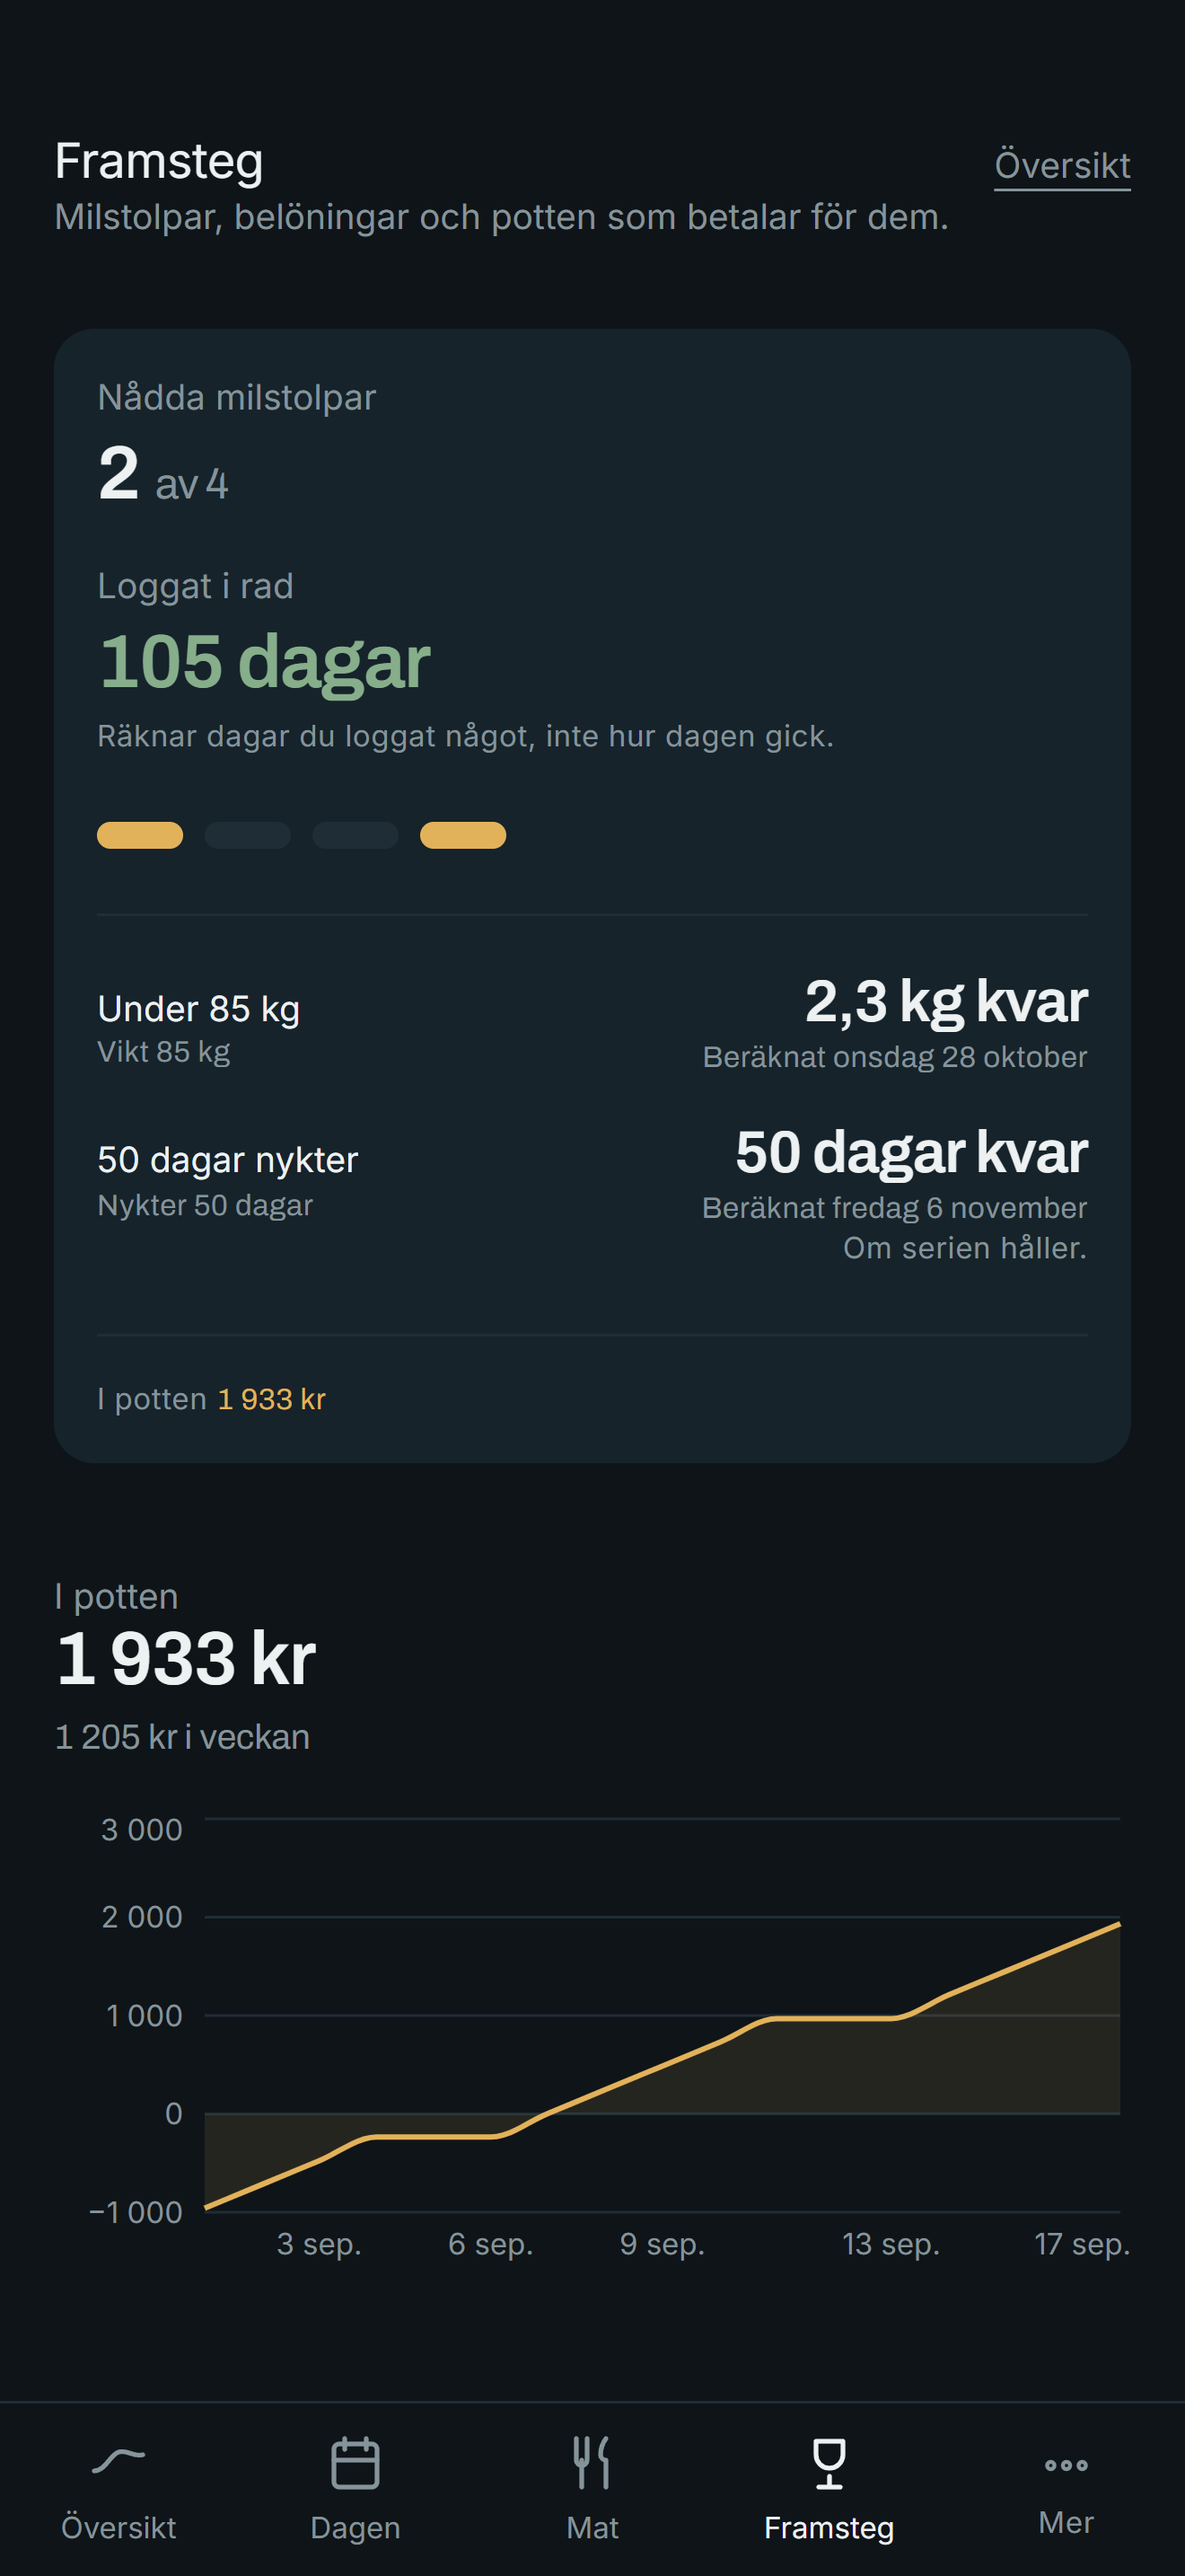
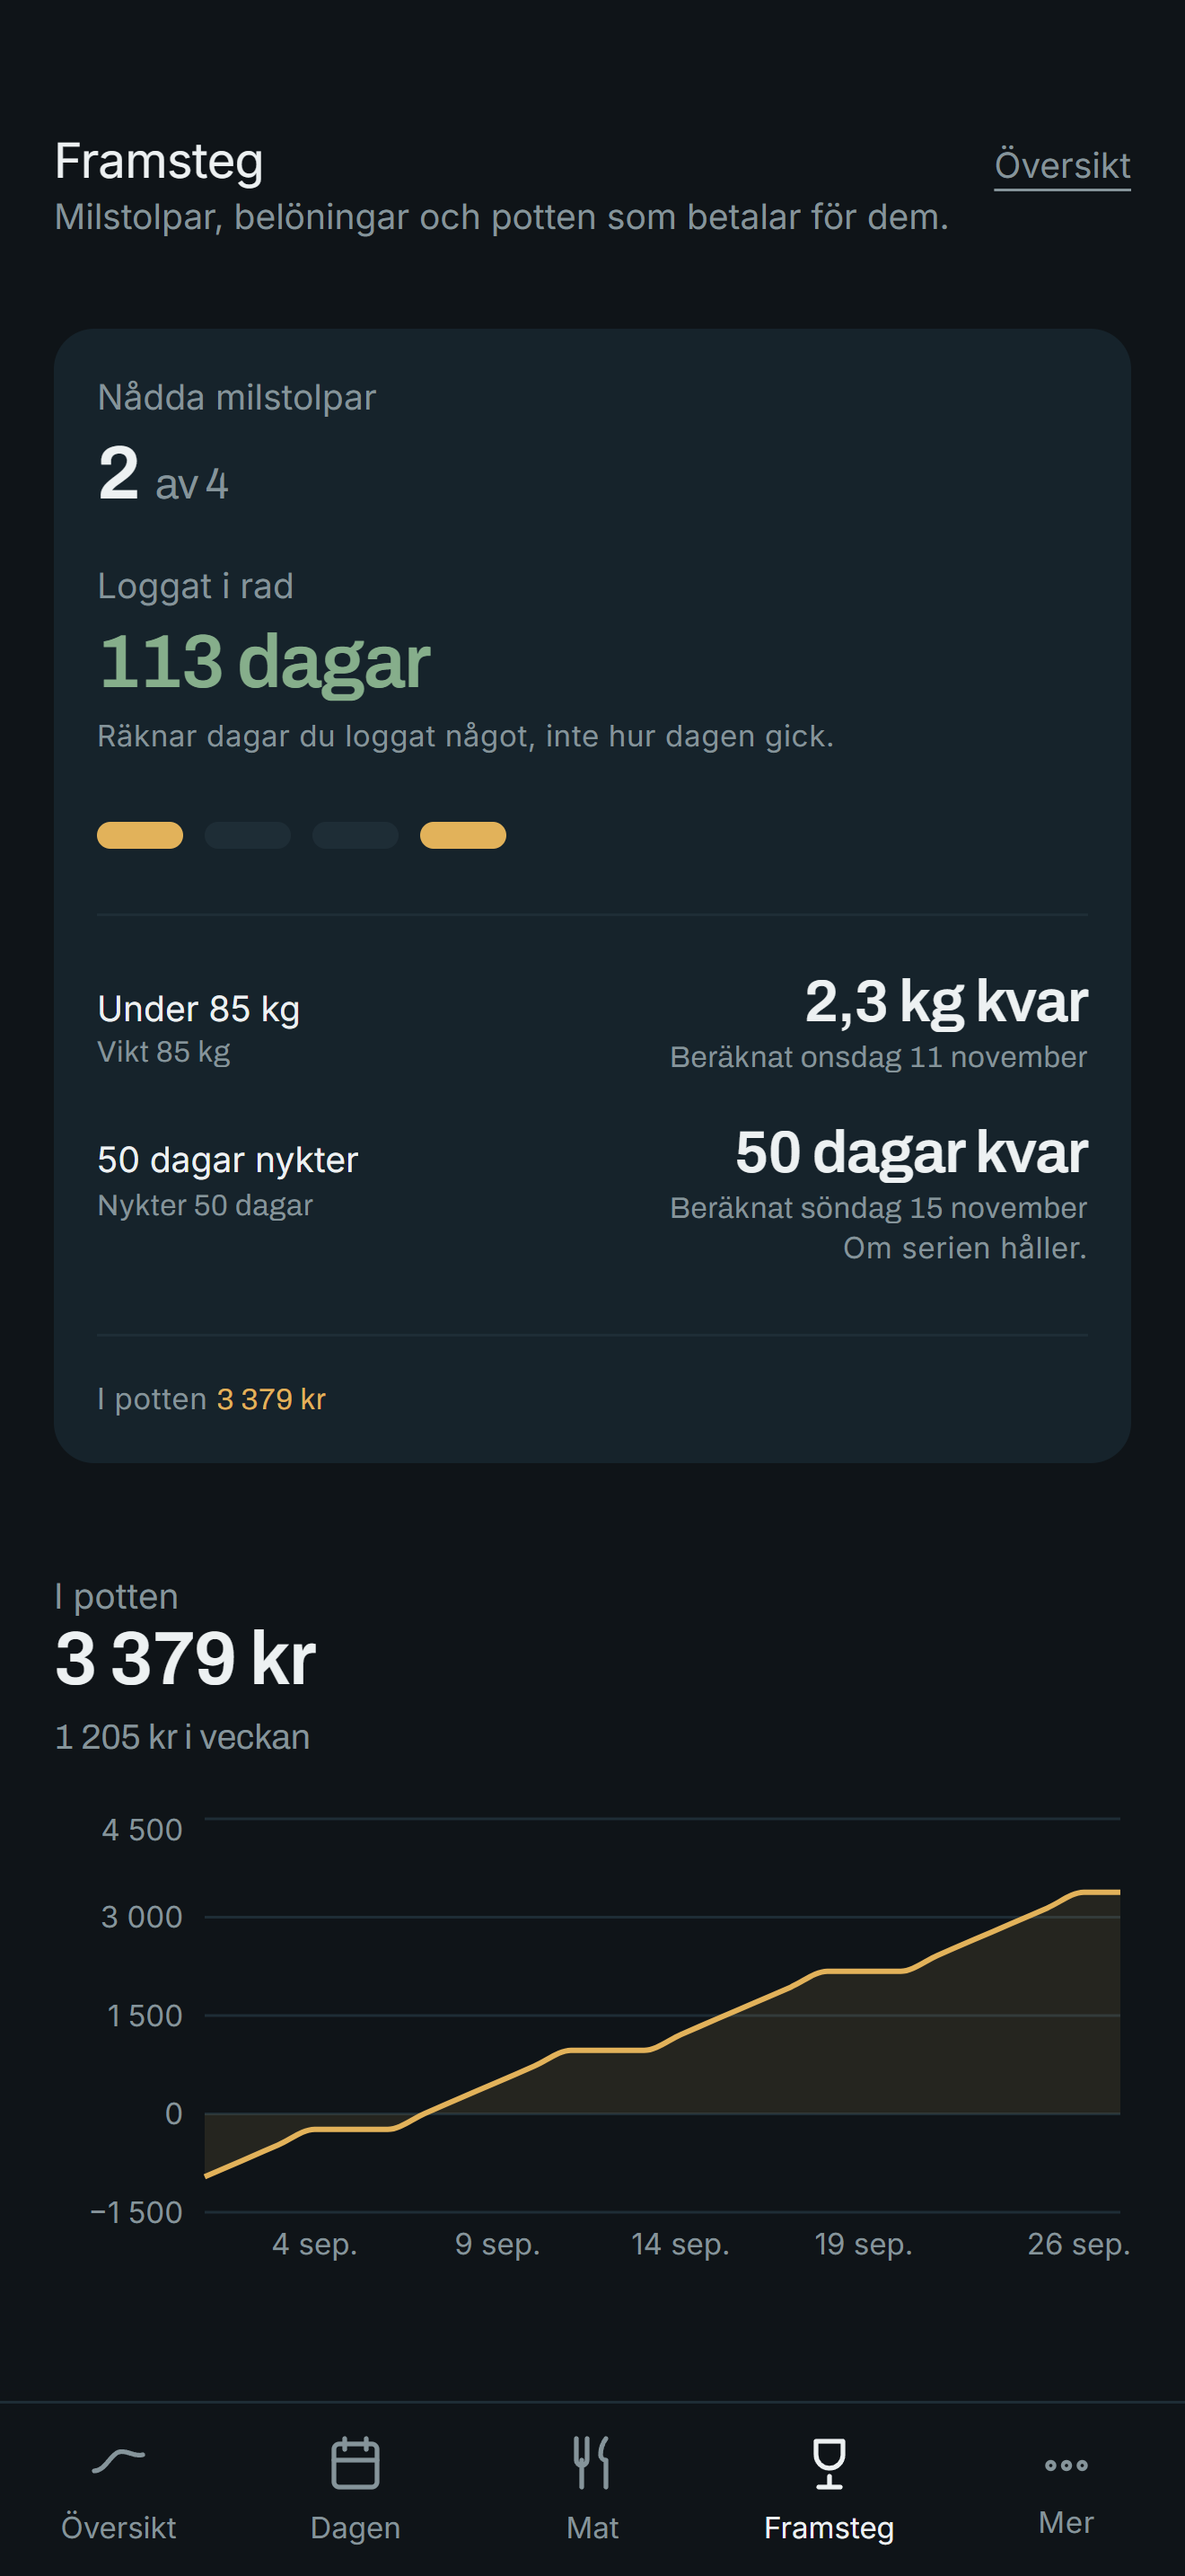
The words at 500 ms, error class ten in §7, and fresh raw phone shots
The tagline's words arrive 500 ms apart and the sentence 500 ms after the
last, measured on the production build: 3 230, 3 730, 4 230, 4 730.
§7 names recurring error class ten with D183's seven cases, and the
release rule: name the commit once the tag exists, before that let the
last commit's run finish. D184 was cited and never written; it is now.

pnpm shots:phone after re-seeding: 3 of 3, every assertion exercised.

diff --git a/apps/web/src/styles/landing.css b/apps/web/src/styles/landing.css
@@ -76,15 +76,16 @@
 
   /**
    * How far apart the three words arrive, and how long after the last one the
-   * sentence follows (D180).
+   * sentence follows (D180, D185).
    *
-   * 700 ms, not 120. At 120 the three words read as one movement with a stutter
-   * in it, which is a transition dressed up as a sentence; at 700 each word is
-   * long enough to be read before the next arrives, which is the pace somebody
-   * actually says "gör det lättare" at. The page is explaining rather than
-   * revealing, and the tempo is part of that.
+   * 500 ms. At 120 the three words read as one movement with a stutter in it,
+   * which is a transition dressed up as a sentence. At 700 each word was long
+   * enough to be read before the next arrived, and the three together took
+   * long enough that the reader was waiting for the page rather than reading
+   * it. 500 is still one word at a time, at the pace somebody says "gör det
+   * lättare" when they mean it, and the sentence follows on the same beat.
    */
-  --hero-word-gap: 700ms;
+  --hero-word-gap: 500ms;
 
   /**
    * The ring at the end of the line, and the beat of silence after it (D180).

diff --git a/DECISIONS.md b/DECISIONS.md
@@ -10335,3 +10335,71 @@ substitutions silently, and nothing stops at step 8 to say so.
 
 The cost is on the record: seven attempts, six commits of repair, and a
 production deploy that was correct from the first attempt that reached it.
+
+---
+
+### D184 — Gratis, said once, above Din data
+
+*2026-09-17, written down 2026-09-26.* The section shipped in 1.2.1 and the
+code, STATE.md and D173's section table all cite this entry; it was never
+written. It is written now so that the reference resolves, with the reasoning
+that went into the commit that built it (`1f1738f`).
+
+**What it answers.** "Is there a catch" is the question a stranger asks second,
+after "what is this", and the page had no answer anywhere. A reader who
+wondered had to infer it from the AGPL paragraph three sections down, which is
+an answer about licensing rather than about money.
+
+**Two paragraphs, verbatim from the brief**: there is no paid version, no
+subscription and nothing locked behind an upgrade, and none is coming, because
+the code is open and today's version can always be run; and that is possible
+because the app costs nothing to run.
+
+**Text only, no figure and no accent.** Nothing in it is a number, and a
+section about not charging that shouted would be doing the thing it says it
+does not do.
+
+**Directly above Din data**, because the two are the same promise from
+different directions: nothing is sold, and nothing about you is the product.
+**The licence stays in Din data**, said there as a right the reader has over
+their own installation; a second telling here would be the page making its
+strongest claim twice, which is D179's finding about the fortnight, in prose.
+
+**Rejected:** folding it into Din data (it is a different question, and a
+reader scanning headings for it would not find it under "data"), and a price
+table with one column reading 0 kr (a table is a shape that says "choose", and
+there is nothing to choose).
+
+---
+
+### D185 — The words at 500 ms, and the tenth error class written down
+
+*2026-09-26. Phase 14's first item.*
+
+**The tagline's words arrive 500 ms apart, and the sentence 500 ms after the
+last.** D180 moved them from 120 ms to 700 because at 120 three words read as
+one movement with a stutter in it. At 700 each word could be read before the
+next arrived, and the three together were slow enough that the reader waited
+for the page. 500 keeps one word at a time and gives back 640 ms. The sentence
+already followed on the same beat (`--hero-words-start + 3 × gap`), so one
+variable changed and the rest followed; `docs/measurements.md`, seventh pass,
+has the frames: 3 230, 3 730, 4 230 and the sentence at 4 730.
+
+**CLAUDE.md §7 now names recurring error class ten: a check that answers the
+question adjacent to the one it was asked**, with the seven cases D183 found in
+one release as its examples. D183 called the seventh "a different mistake", a
+script that could only run where it was not; written as a question it is the
+same one, "does it run in production" answered by "does it run here", so the
+class takes all seven. Written into §7 rather than left in D183 because a
+decision record is read when somebody is changing that decision, and this is a
+habit to hold while writing any check at all.
+
+**And the release rule D183's aftermath produced**, in §7 beside "uppdatera
+prod": name the release commit once the tag exists; before that, let the last
+commit's CI run finish before deploying. The two halves are the two ways 1.2.1
+nearly shipped the wrong thing: a named commit whose run was cancelled by the
+next push, and a tip that moved past the tag.
+
+**One thing this could not do.** The brief numbers the class ten, and nothing
+in the repository lists one to nine. §7 says so in a parenthesis rather than
+inventing them.

diff --git a/CLAUDE.md b/CLAUDE.md
@@ -822,6 +822,12 @@ a commit on `main` is a commit that the next redeploy ships.
   that ends early is a report of where production actually is. Never work around
   a step that cannot run: say what is missing and where it is set, so the next
   attempt runs unattended. `INFRA.md` carries the same steps for a person.
+  - **Name the release commit once the tag exists; before that, let the last
+    commit's CI run finish before deploying.** CI runs under
+    `cancel-in-progress`, so a commit that stopped being `dev`'s tip within a
+    few minutes of being pushed has no verdict at all, only a cancelled run; and
+    once the tag exists, the tip is no longer the release, because the next fix
+    lands after it. 1.2.1 needed both halves to get out (STATE.md, D183).
 - Update `STATE.md` with what changed, what is half-done, and the next intended step, before ending a session.
 - **`STATE.md`'s current-state section describes only what was exercised through the interface in that session.** Work that exists as API only is listed under its own heading, **API without a screen**, until a screen calls it. D95 described eight admin capabilities as though they were screens; all eight were endpoints with tests and none of them was reachable by clicking. That is the same failure as the lint claim in D98 — a summary written from what was built rather than from what was checked — and both survived because nothing separated the two.
 - Any architectural choice that took thought goes in `DECISIONS.md` with the reasoning and the rejected alternatives.
@@ -879,4 +885,22 @@ a commit on `main` is a commit that the next redeploy ships.
     "this did not finish".
   - **`process.exitCode`, never `process.exit()`.** The second ends the process
     immediately and takes unflushed output with it.
+- **Recurring error class ten: a check that answers the question adjacent to
+  the one it was asked.** It passes, it is green, and it is about something
+  next to the thing that mattered, so nothing looks wrong until the real world
+  asks the real question. (Numbered as the owner counts them; one to nine are not
+  written into this file.) The seven cases D183 found in one release:
+  - *this tag's workflow run*, answered by the newest run of that workflow;
+  - *CI for the commit being released*, answered by CI for `dev`'s tip;
+  - *is `a21224c` green*, answered by whether `a21224c` equals a forty-character sha;
+  - *will this variable be set*, answered by whether it is set already;
+  - *is the plan blocked*, answered by whether the words "not set" appear in it;
+  - *did the API come up*, answered by whether it printed every diagnostic it has;
+  - *does the publish script run in production*, answered by whether it runs on
+    this workstation, where `tsx` exists and the image has none.
+
+  The defence is to write the question down in the check's own words before
+  writing the check, and to test it against a world that differs from the
+  fixture in the way the adjacent answer would miss: a tag whose run has not
+  registered yet, a tip that moved, a short sha, a label containing the word.
 - Before implementing a phase, re-read section 3 and section 4. The math and the isolation rules are where this project can quietly go wrong.

diff --git a/docs/measurements.md b/docs/measurements.md
@@ -11,6 +11,37 @@ the only way a marketing number stays honest.
 
 ---
 
+## The landing page, seventh pass
+
+2026-09-26, after D185: the words 500 ms apart instead of 700. Measured
+against the production build (`vite preview`), 1 280 px, by the same
+`requestAnimationFrame` watcher as the fifth pass, so a thing is recorded on the
+first frame it crosses 2 % opacity.
+
+| | nominal | measured |
+|---|---|---|
+| the line completes | 2 300 ms | 2 340 ms |
+| the ring starts | 2 300 ms | 2 426 ms |
+| the ring has gone | 2 800 ms | 2 868 ms |
+| "Gör" | 3 100 ms | **3 230 ms** |
+| "det" | 3 600 ms | **3 730 ms** |
+| "lättare." | 4 100 ms | **4 230 ms** |
+| the sentence | 4 600 ms | **4 730 ms** |
+
+**The intervals are exact**: 500 ms between the words, twice, and 500 ms from
+the last word to the sentence. The whole sequence ends 640 ms sooner than it
+did at 700, which is the point: the reader was waiting for the page. The first
+word still arrives 362 ms after the ring has gone, so the beat of stillness
+after the line (D180) is untouched.
+
+Unchanged and re-read in the same run: the phone frame at +22,0°, +9,8°, 0,0°
+through the middle band, -9,8°, -22,0°, `box-shadow: none`; the daily card
+cycling 84,6 / 84,4 and holding still off screen; under reduced motion the ring
+`display: none`, the line drawn and all three words at full opacity 900 ms after
+load. Desktop 5 206 px tall, 360 px 6 756 px with no horizontal overflow.
+
+---
+
 ## The landing page, sixth pass
 
 2026-09-17, after D181.
